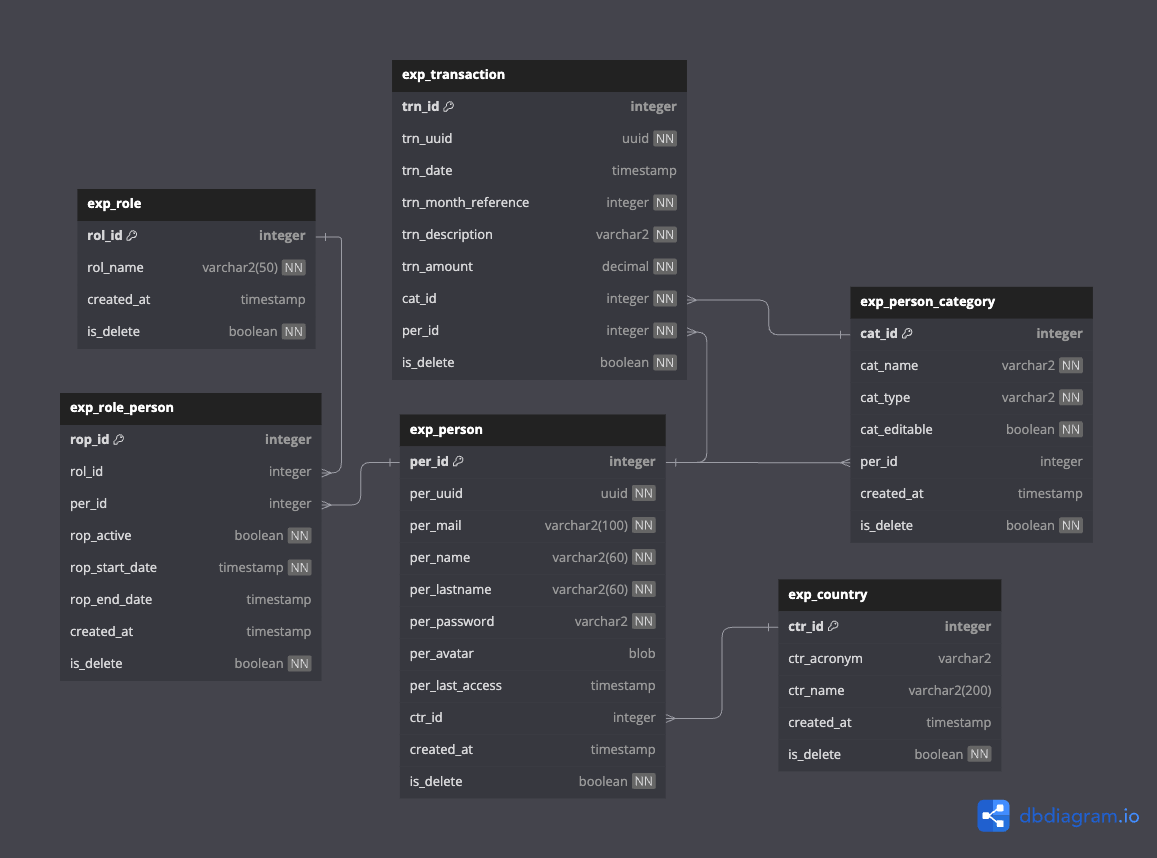
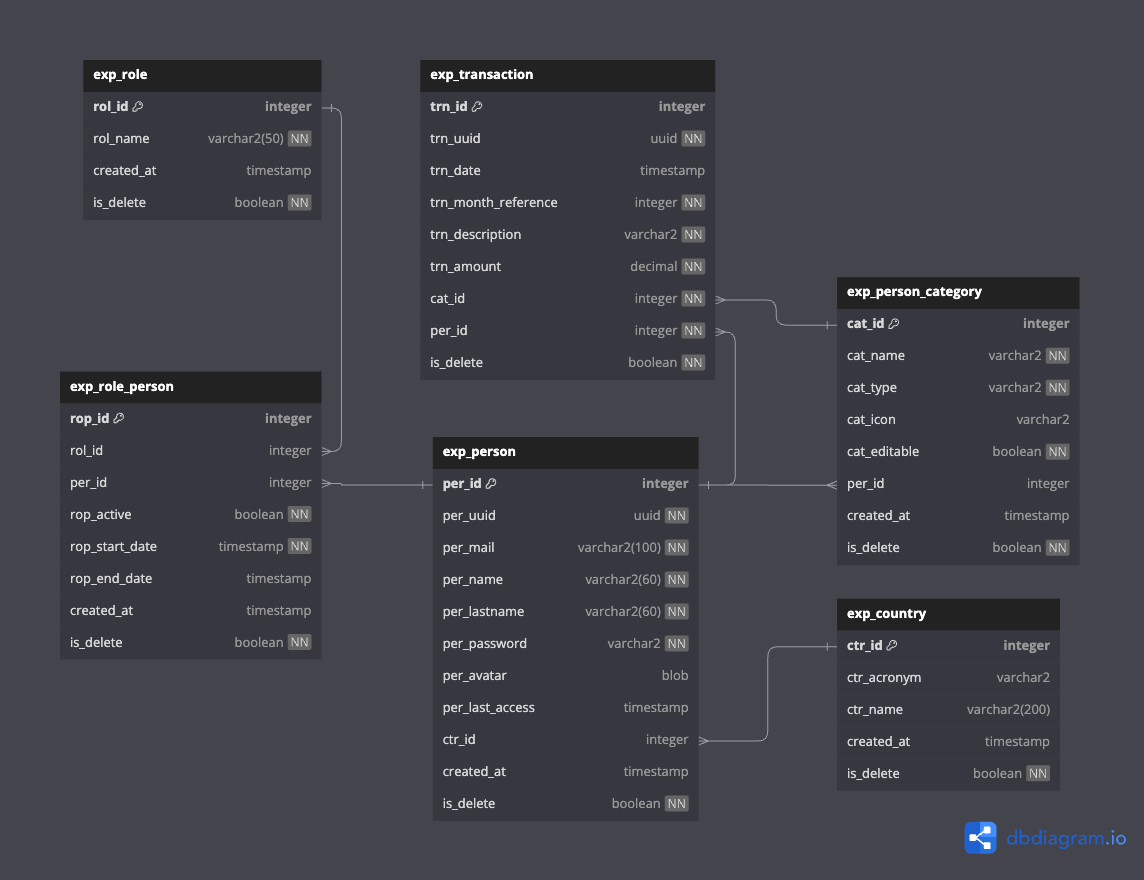
Add new field CAT_ICON to category_person table and update scripts

diff --git a/src/main/java/ec/com/expensys/web/controller/ExpPersonController.java b/src/main/java/ec/com/expensys/web/controller/ExpPersonController.java
@@ -1,0 +1,43 @@
+package ec.com.expensys.web.controller;
+
+import ec.com.expensys.persistence.entity.ExpPerson;
+import ec.com.expensys.service.ExpPersonService;
+import ec.com.expensys.web.dto.ExpPersonDto;
+import org.springframework.http.HttpStatus;
+import org.springframework.http.ResponseEntity;
+import org.springframework.web.bind.annotation.GetMapping;
+import org.springframework.web.bind.annotation.PostMapping;
+import org.springframework.web.bind.annotation.RequestMapping;
+import org.springframework.web.bind.annotation.RestController;
+
+import java.util.List;
+
+@RestController
+@RequestMapping("/person")
+public class ExpPersonController {
+
+    private final ExpPersonService expPersonService;
+
+    public ExpPersonController(ExpPersonService expPersonService) {
+        this.expPersonService = expPersonService;
+    }
+
+
+
+    @PostMapping("/registration")
+    public ResponseEntity<ExpPerson> register(ExpPersonDto personDto){
+        try{
+            return new ResponseEntity<>(
+                    expPersonService.registerNewPerson(personDto),
+                    HttpStatus.CREATED);
+        }catch (Exception e){
+            return new ResponseEntity<>(HttpStatus.BAD_REQUEST);
+        }
+    }
+
+
+    @GetMapping
+    public ResponseEntity<List<ExpPerson>> findAll(){
+         return ResponseEntity.ok(expPersonService.findAll());
+    }
+}

diff --git a/src/main/java/ec/com/expensys/web/controller/ExpPersonCategoryController.java b/src/main/java/ec/com/expensys/web/controller/ExpPersonCategoryController.java
@@ -1,0 +1,31 @@
+package ec.com.expensys.web.controller;
+
+import ec.com.expensys.service.ExpPersonCategoryService;
+import ec.com.expensys.service.ExpPersonService;
+import org.springframework.web.bind.annotation.RequestMapping;
+import org.springframework.web.bind.annotation.RestController;
+
+@RestController
+@RequestMapping("/categories")
+public class ExpPersonCategoryController {
+
+    private final ExpPersonCategoryService expPersonCategoryService;
+    private final ExpPersonService expPersonService;
+
+    public ExpPersonCategoryController(ExpPersonCategoryService expPersonCategoryService,
+                                       ExpPersonService expPersonService) {
+
+        this.expPersonCategoryService = expPersonCategoryService;
+        this.expPersonService = expPersonService;
+    }
+
+    //TODO reestructurar las tablas de la base de datos para apuntar al esquema EXP
+//    @GetMapping("/mycategories/{uuidPerson}")
+//    public ResponseEntity<List<ExpPersonCategory>> findAllByPersonAndCommon(@PathVariable String uuidPerson) {
+//        System.out.println("uuid: " + uuidPerson);
+//        ExpPerson person = expPersonService.findByUuid(UUID.fromString(uuidPerson));
+//        System.out.println("person: " + person.getPerLastname());
+//        return ResponseEntity.ok(expPersonCategoryService.findAllCommonsAndByPerson(person));
+//    }
+
+}

diff --git a/src/main/java/ec/com/expensys/config/security/PEMUtils.java b/src/main/java/ec/com/expensys/config/security/PEMUtils.java
@@ -1,0 +1,34 @@
+package ec.com.expensys.config.security;
+
+import org.springframework.core.io.ClassPathResource;
+import org.springframework.stereotype.Component;
+
+import java.io.BufferedReader;
+import java.io.InputStream;
+import java.io.InputStreamReader;
+import java.security.KeyFactory;
+import java.security.PrivateKey;
+import java.security.spec.PKCS8EncodedKeySpec;
+import java.util.Base64;
+import java.util.stream.Collectors;
+
+public class PEMUtils {
+
+    public static PrivateKey loadPrivateKey(String filename) throws Exception {
+        ClassPathResource classPathResource = new ClassPathResource(filename);
+        InputStream inputStream = classPathResource.getInputStream();
+
+        String privateKeyPEM = new BufferedReader(new InputStreamReader(inputStream))
+                .lines()
+                .collect(Collectors.joining("\n"));
+
+        privateKeyPEM = privateKeyPEM.replace("-----BEGIN PRIVATE KEY-----", "")
+                .replace("-----END PRIVATE KEY-----", "")
+                .replaceAll("\\s+", "");
+
+        byte[] encoded = Base64.getDecoder().decode(privateKeyPEM);
+        PKCS8EncodedKeySpec keySpec = new PKCS8EncodedKeySpec(encoded);
+        KeyFactory keyFactory = KeyFactory.getInstance("RSA");
+        return keyFactory.generatePrivate(keySpec);
+    }
+}

diff --git a/src/main/java/ec/com/expensys/service/CryptoService.java b/src/main/java/ec/com/expensys/service/CryptoService.java
@@ -1,0 +1,27 @@
+package ec.com.expensys.service;
+
+import ec.com.expensys.config.security.PEMUtils;
+import org.springframework.beans.factory.annotation.Autowired;
+import org.springframework.stereotype.Service;
+
+import javax.crypto.Cipher;
+import java.security.PrivateKey;
+import java.util.Base64;
+
+@Service
+public class CryptoService {
+
+    private final PrivateKey pemPrivateKey;
+
+    public CryptoService() throws Exception {
+        this.pemPrivateKey = PEMUtils.loadPrivateKey("RSA/private_pkcs8.pem");
+    }
+
+    public String decrypt(String encryptMsg) throws Exception {
+        Cipher cipher  = Cipher.getInstance("RSA");
+        cipher.init(Cipher.DECRYPT_MODE, pemPrivateKey);
+        byte[] decodeMessage = Base64.getDecoder().decode(encryptMsg);
+        byte[] decryptedMessage = cipher.doFinal(decodeMessage);
+        return new String(decryptedMessage);
+    }
+}

diff --git a/src/main/java/ec/com/expensys/config/AppConfiguration.java b/src/main/java/ec/com/expensys/config/AppConfiguration.java
@@ -1,0 +1,23 @@
+package ec.com.expensys.config;
+
+import org.springframework.beans.factory.annotation.Autowired;
+import org.springframework.context.MessageSource;
+import org.springframework.context.annotation.Bean;
+import org.springframework.context.annotation.Configuration;
+import org.springframework.context.support.ReloadableResourceBundleMessageSource;
+import org.springframework.core.io.ResourceLoader;
+
+@Configuration
+public class AppConfiguration {
+
+    @Autowired
+    ResourceLoader resourceLoader;
+
+    @Bean
+    public MessageSource messageSource() {
+        ReloadableResourceBundleMessageSource messageSource = new ReloadableResourceBundleMessageSource();
+        messageSource.setBasename("classpath:messages_es_ES");
+        messageSource.setDefaultEncoding("UTF-8");
+        return messageSource;
+    }
+}

diff --git a/src/main/java/ec/com/expensys/service/ExpPersonSecurityService.java b/src/main/java/ec/com/expensys/service/ExpPersonSecurityService.java
@@ -1,0 +1,27 @@
+package ec.com.expensys.service;
+
+import org.springframework.beans.factory.annotation.Autowired;
+import org.springframework.security.core.userdetails.UserDetails;
+import org.springframework.security.core.userdetails.UserDetailsService;
+import org.springframework.security.core.userdetails.UsernameNotFoundException;
+import org.springframework.stereotype.Service;
+
+@Service
+public class ExpPersonSecurityService implements UserDetailsService {
+
+
+    private final ExpPersonService expPersonService;
+
+    @Autowired
+    public ExpPersonSecurityService(ExpPersonService expPersonService) {
+        this.expPersonService = expPersonService;
+    }
+
+
+
+
+    @Override
+    public UserDetails loadUserByUsername(String username) throws UsernameNotFoundException {
+        return null;
+    }
+}

diff --git a/src/main/java/ec/com/expensys/service/ExpRolePersonService.java b/src/main/java/ec/com/expensys/service/ExpRolePersonService.java
@@ -1,0 +1,17 @@
+package ec.com.expensys.service;
+
+import ec.com.expensys.persistence.entity.ExpRolePerson;
+import ec.com.expensys.persistence.repository.ExpRolePersonRepository;
+
+public class ExpRolePersonService {
+
+    private final ExpRolePersonRepository expRolePersonRepository;
+
+    public ExpRolePersonService(ExpRolePersonRepository expRolePersonRepository) {
+        this.expRolePersonRepository = expRolePersonRepository;
+    }
+
+    public ExpRolePerson saveNew(ExpRolePerson expRolePerson) {
+        return expRolePersonRepository.save(expRolePerson);
+    }
+}

diff --git a/src/main/java/ec/com/expensys/web/dto/ExpPersonDto.java b/src/main/java/ec/com/expensys/web/dto/ExpPersonDto.java
@@ -1,0 +1,26 @@
+package ec.com.expensys.web.dto;
+
+import lombok.Getter;
+import lombok.NonNull;
+import lombok.Setter;
+
+@Getter
+@Setter
+public class ExpPersonDto {
+
+    @NonNull
+    private String perMail;
+
+    @NonNull
+    private String perName;
+
+    @NonNull
+    private String perLastName;
+
+    @NonNull
+    private String perPassword;
+
+    @NonNull
+    private String countryId;
+
+}

diff --git a/src/main/java/ec/com/expensys/persistence/repository/ExpRoleRepository.java b/src/main/java/ec/com/expensys/persistence/repository/ExpRoleRepository.java
@@ -1,0 +1,8 @@
+package ec.com.expensys.persistence.repository;
+
+import ec.com.expensys.persistence.entity.ExpRole;
+import org.springframework.data.repository.CrudRepository;
+
+public interface ExpRoleRepository extends CrudRepository<ExpRole, Integer> {
+
+}
